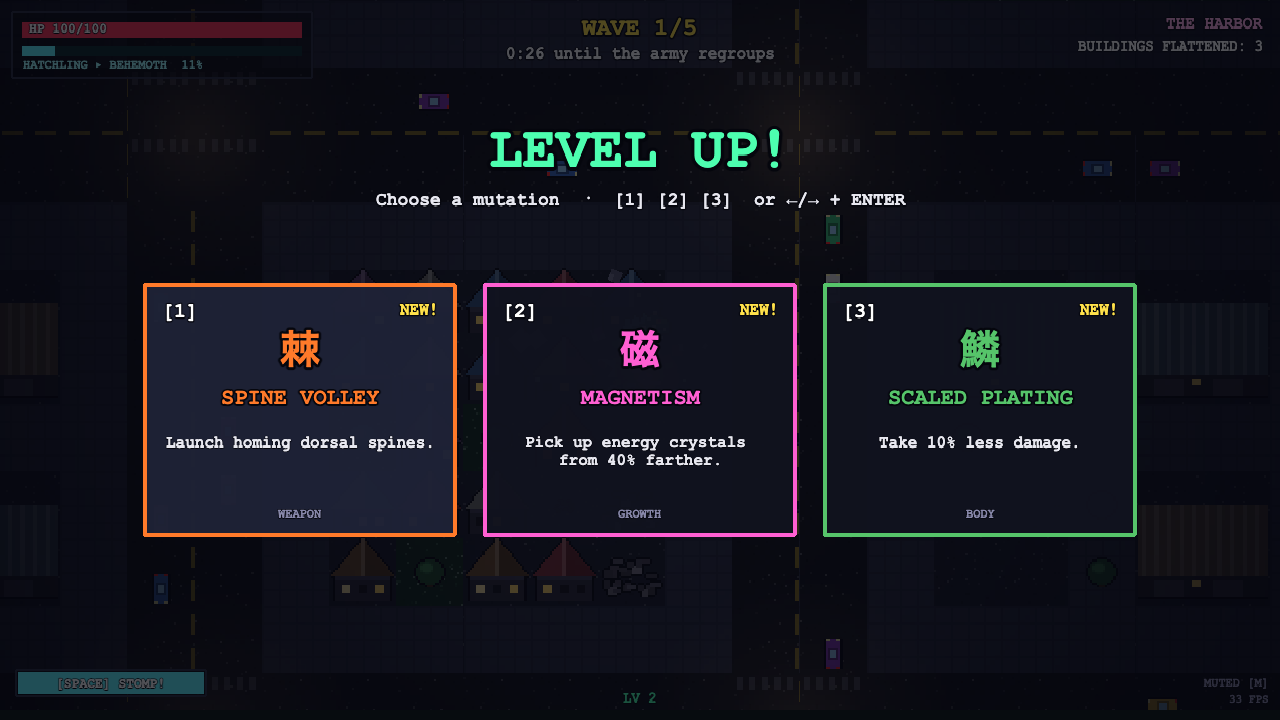
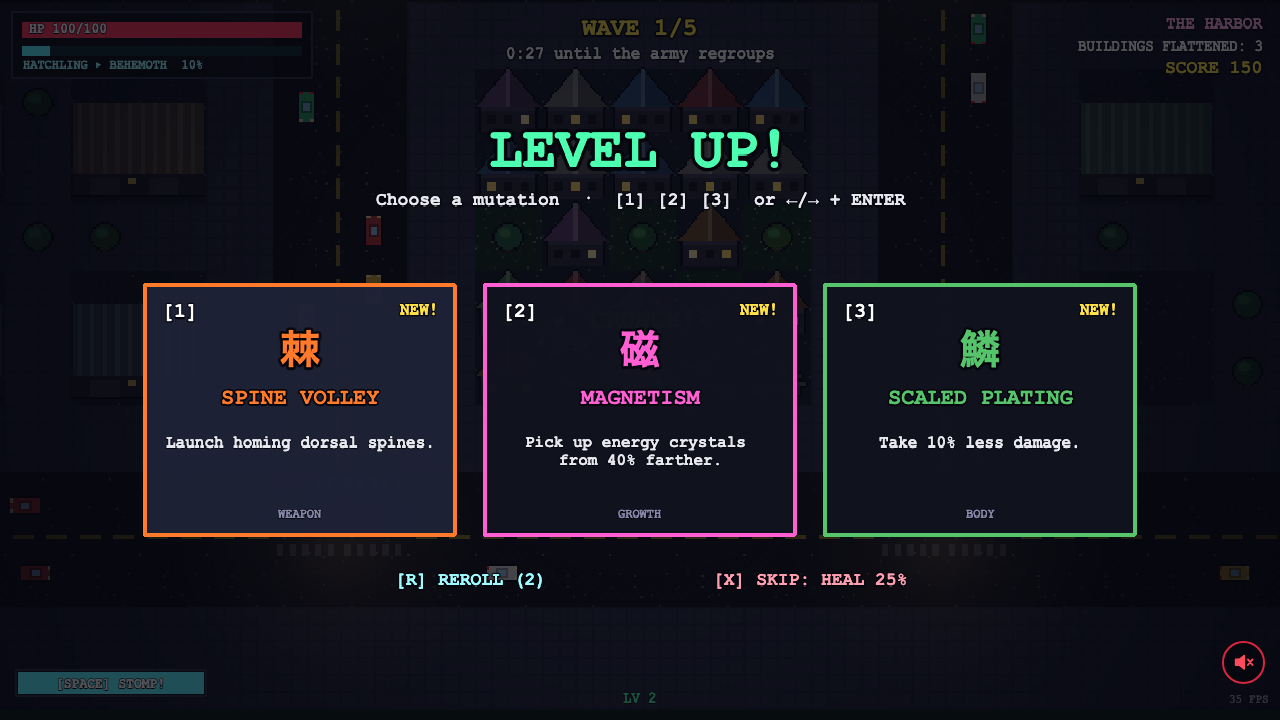
Flow-field navigation for ground units; infantry close to weapon range; mute button documented

diff --git a/src/enemies.ts b/src/enemies.ts
@@ -149,6 +149,11 @@ export class EnemyManager {
     return n;
   }
 
+  /** Direction to walk toward the kaiju: the flow field around buildings, or a straight line in the open. */
+  private toward(e: Enemy, ux: number, uy: number): [number, number] {
+    return this.s.nav.dir(e.x, e.y) ?? [ux, uy];
+  }
+
   private viewRadius(extra = 40) {
     const v = this.s.cameras.main.worldView;
     return Math.hypot(v.width, v.height) / 2 + extra;
@@ -310,7 +315,7 @@ export class EnemyManager {
       }
       // Blocked by a building: sidestep along the perpendicular that leans toward the kaiju, briefly.
       e.detourT -= dt;
-      if (!e.flying && e.etype !== 'mech' && e.etype !== 'walker' && e.detourT <= 0 && (!body.touching.none || !body.blocked.none)) {
+      if (!e.flying && e.etype !== 'mech' && e.etype !== 'walker' && e.detourT <= 0 && (!body.touching.none || !body.blocked.none) && !this.s.nav.dir(e.x, e.y)) {
         const v = body.velocity;
         const L = v.length() || 1;
         const px = -v.y / L, py = v.x / L;
@@ -363,8 +368,9 @@ export class EnemyManager {
     // Infantry are always slower than the kaiju, so escape is possible but never free.
     const sp = e.etype === 'rocket' ? 50 : 62;
     const rocket = e.etype === 'rocket';
+    const [ax, ay] = this.toward(e, ux, uy);
     if (tier === 1 && !rocket) {
-      if (d > 120) { vx = ux * sp; vy = uy * sp; }
+      if (d > 120) { vx = ax * sp; vy = ay * sp; }
       else if (d < 70) { vx = -ux * sp * 0.6; vy = -uy * sp * 0.6; }
       if (d < 220 && e.fireCd <= 0) {
         // Tier 1 rifles are a nuisance, not a death sentence: a stationary hatchling should last ~30s+.
@@ -374,18 +380,19 @@ export class EnemyManager {
       }
     } else {
       // Keep distance, take shots, flee when close. Rocket teams hang further back.
-      const keep = (rocket ? 240 : 150) * p.scale * 0.5;
+      // They close to within 85% of their weapon's range before circling, so they always get to shoot.
+      const range = rocket ? 560 : tier === 2 ? 320 : 480;
+      const keep = Math.min((rocket ? 240 : 150) * p.scale * 0.5, range * 0.55);
       if (d < keep) { vx = -ux * sp * 1.2; vy = -uy * sp * 1.2; }
-      else if (d > keep * 2.2) { vx = ux * sp; vy = uy * sp; }
-      else { vx = -uy * sp * 0.5; vy = ux * sp * 0.5; }
+      else if (d > range * 0.85) { vx = ax * sp; vy = ay * sp; }
+      else { vx = -uy * sp * 0.5 * e.orbitDir; vy = ux * sp * 0.5 * e.orbitDir; }
       if (rocket) {
-        if (d < 560 && e.fireCd <= 0) {
+        if (d < range && e.fireCd <= 0) {
           e.fireCd = 3.2 + Math.random();
           this.fire('rocket', e.x, e.y, Math.atan2(dy, dx), 170, 7, 4, 16, 1.4);
           sfx.shot();
         }
       } else {
-        const range = tier === 2 ? 320 : 480;
         if (d < range && e.fireCd <= 0) {
           e.fireCd = (tier === 2 ? 2 : 3.5) + Math.random() * 1.5;
           this.fire('bullet', e.x, e.y, Math.atan2(dy, dx) + Phaser.Math.FloatBetween(-0.1, 0.1), 240, tier === 2 ? 3 : 2, 2.4);
@@ -402,8 +409,9 @@ export class EnemyManager {
     const body = e.body as Phaser.Physics.Arcade.Body;
     const keep = tier === 1 ? 170 : tier === 2 ? 260 : 420;
     const sp = 48;
+    const [ax, ay] = this.toward(e, ux, uy);
     if (e.detourT > 0) body.setVelocity(e.detourX * sp, e.detourY * sp);
-    else if (d > keep + 40) body.setVelocity(ux * sp, uy * sp);
+    else if (d > keep + 40) body.setVelocity(ax * sp, ay * sp);
     else if (d < keep - 40) body.setVelocity(-ux * sp, -uy * sp);
     else body.setVelocity(-uy * sp * 0.6, ux * sp * 0.6);
     if (body.velocity.lengthSq() > 1) e.setRotation(Math.atan2(body.velocity.y, body.velocity.x));
@@ -453,8 +461,9 @@ export class EnemyManager {
     const keep = 520;
     if (e.mode !== 'charge') {
       const sp = 44;
+      const [ax, ay] = this.toward(e, ux, uy);
       if (e.detourT > 0) body.setVelocity(e.detourX * sp, e.detourY * sp);
-      else if (d > keep + 60) body.setVelocity(ux * sp, uy * sp);
+      else if (d > keep + 60) body.setVelocity(ax * sp, ay * sp);
       else if (d < keep - 80) body.setVelocity(-ux * sp, -uy * sp);
       else body.setVelocity(0, 0);
       if (body.velocity.lengthSq() > 1) e.setRotation(Math.atan2(body.velocity.y, body.velocity.x));

diff --git a/src/nav.ts b/src/nav.ts
@@ -1,0 +1,89 @@
+// Flow-field navigation: a breadth-first distance map over the tile grid, rebuilt from the kaiju's
+// tile a few times a second. Ground units follow it downhill, so they route around buildings instead
+// of pressing into walls. Destroyed buildings open up their tiles.
+import { COAST_ROW, MAP_H, MAP_W, TILE } from './config';
+import type { City, Destructible } from './city';
+
+const UNKNOWN = 0xffff;
+const RADIUS = 44; // tiles searched around the kaiju
+const DIRS: [number, number, number][] = [
+  [1, 0, 10], [-1, 0, 10], [0, 1, 10], [0, -1, 10],
+  [1, 1, 14], [1, -1, 14], [-1, 1, 14], [-1, -1, 14],
+];
+
+export class NavField {
+  private blocked = new Uint8Array(MAP_W * MAP_H);
+  private dist = new Uint16Array(MAP_W * MAP_H).fill(UNKNOWN);
+  private queue = new Int32Array(MAP_W * MAP_H);
+  private touched: number[] = [];
+
+  constructor(city: City) {
+    for (let ty = COAST_ROW; ty < MAP_H; ty++) for (let tx = 0; tx < MAP_W; tx++) this.blocked[ty * MAP_W + tx] = 1;
+    for (const d of city.all) if (d.alive && d.zone) this.mark(d, 1);
+  }
+
+  private mark(d: Destructible, v: number) {
+    const x0 = Math.floor((d.x - d.w / 2) / TILE), x1 = Math.floor((d.x + d.w / 2 - 1) / TILE);
+    const y0 = Math.floor((d.y - d.h / 2) / TILE), y1 = Math.floor((d.y + d.h / 2 - 1) / TILE);
+    for (let ty = Math.max(0, y0); ty <= Math.min(MAP_H - 1, y1); ty++)
+      for (let tx = Math.max(0, x0); tx <= Math.min(MAP_W - 1, x1); tx++) this.blocked[ty * MAP_W + tx] = v;
+  }
+
+  /** A building came down: its tiles are walkable now. */
+  unblock(d: Destructible) {
+    this.mark(d, 0);
+  }
+
+  /** Rebuild distances outward from the kaiju. Cheap: a bounded 8-neighbour Dijkstra-lite BFS. */
+  update(px: number, py: number) {
+    for (const i of this.touched) this.dist[i] = UNKNOWN;
+    this.touched.length = 0;
+    const sx = Math.max(0, Math.min(MAP_W - 1, Math.floor(px / TILE)));
+    const sy = Math.max(0, Math.min(MAP_H - 1, Math.floor(py / TILE)));
+    let head = 0, tail = 0;
+    const start = sy * MAP_W + sx;
+    this.dist[start] = 0;
+    this.touched.push(start);
+    this.queue[tail++] = start;
+    while (head < tail) {
+      const i = this.queue[head++];
+      const x = i % MAP_W, y = (i / MAP_W) | 0;
+      const base = this.dist[i];
+      for (const [dx, dy, cost] of DIRS) {
+        const nx = x + dx, ny = y + dy;
+        if (nx < 0 || ny < 0 || nx >= MAP_W || ny >= MAP_H) continue;
+        if (Math.abs(nx - sx) > RADIUS || Math.abs(ny - sy) > RADIUS) continue;
+        const j = ny * MAP_W + nx;
+        if (this.blocked[j]) continue;
+        // no corner cutting through building edges
+        if (dx && dy && (this.blocked[y * MAP_W + nx] || this.blocked[ny * MAP_W + x])) continue;
+        const nd = base + cost;
+        if (nd < this.dist[j]) {
+          if (this.dist[j] === UNKNOWN) this.touched.push(j);
+          this.dist[j] = nd;
+          this.queue[tail++] = j;
+        }
+      }
+    }
+  }
+
+  /** Unit vector toward the kaiju along the field, or null if this point isn't covered. */
+  dir(x: number, y: number): [number, number] | null {
+    const tx = Math.floor(x / TILE), ty = Math.floor(y / TILE);
+    if (tx < 0 || ty < 0 || tx >= MAP_W || ty >= MAP_H) return null;
+    const here = this.dist[ty * MAP_W + tx];
+    if (here === UNKNOWN || here === 0) return null;
+    let best = here, bx = 0, by = 0;
+    for (const [dx, dy] of DIRS) {
+      const nx = tx + dx, ny = ty + dy;
+      if (nx < 0 || ny < 0 || nx >= MAP_W || ny >= MAP_H) continue;
+      const v = this.dist[ny * MAP_W + nx];
+      if (v < best) { best = v; bx = dx; by = dy; }
+    }
+    if (!bx && !by) return null;
+    // Steer toward the centre of the next tile, so units stay off building corners.
+    const cx = (tx + bx) * TILE + TILE / 2 - x, cy = (ty + by) * TILE + TILE / 2 - y;
+    const L = Math.hypot(cx, cy) || 1;
+    return [cx / L, cy / L];
+  }
+}

diff --git a/src/scenes/GameScene.ts b/src/scenes/GameScene.ts
@@ -18,6 +18,7 @@ import type { UIScene } from './UIScene';
 import { Director } from '../director';
 import { Pickups, type PickupKind } from '../pickups';
 import { Score } from '../score';
+import { NavField } from '../nav';
 import { gradeFor, qualifies } from '../scores';
 
 export type Phase = 'title' | 'playing' | 'paused' | 'levelup' | 'bulletin' | 'dying' | 'gameover' | 'victory' | 'results';
@@ -50,6 +51,8 @@ export class GameScene extends Phaser.Scene {
   ui!: UIScene;
   director!: Director;
   pickups!: Pickups;
+  nav!: NavField;
+  private navT = 0;
   score = new Score();
   stats = new RunTracker();
   news = new NewsDesk();
@@ -121,6 +124,7 @@ export class GameScene extends Phaser.Scene {
     this.physics.world.setBounds(0, 0, WORLD_W, LAND_H - 6);
     this.city = new City(this, SEED);
     this.city.build();
+    this.nav = new NavField(this.city);
     this.fx = new Fx(this);
     this.player = new Kaiju(this, WORLD_W / 2, LAND_H - 70);
     this.enemies = new EnemyManager(this);
@@ -358,6 +362,11 @@ export class GameScene extends Phaser.Scene {
       if (d.sizeClass <= this.tier && circleHits(d, p.x, p.y, p.radius)) this.destroyDestructible(d, true);
     }
 
+    this.navT -= dt;
+    if (this.navT <= 0) {
+      this.navT = 0.35;
+      this.nav.update(p.x, p.y);
+    }
     this.weapons.update(dt);
     this.enemies.update(dt);
     this.pickups.update(dt);
@@ -696,6 +705,7 @@ export class GameScene extends Phaser.Scene {
     if (d.zone) {
       this.city.solids.remove(d.zone, true, true);
       d.zone = undefined;
+      this.nav.unblock(d);
     }
     if (credit) this.stats.destroyed(d.kind, d.district);
     const p = this.player;

diff --git a/README.md b/README.md
@@ -46,7 +46,7 @@ npm run build
 | 1 / 2 / 3, or ←/→ then Enter, or click (gamepad: d-pad + A) | Pick an upgrade on level-up |
 | Enter (gamepad: A) | Start, dismiss the news card |
 | P or Esc | Pause / resume |
-| M | Mute / unmute (remembered between runs) |
+| M, or the speaker button in the bottom-right corner | Mute / unmute everything (remembered between runs) |
 
 **The loop:** crushing the city makes you **grow**; killing the military gives crystals that **level you up**. You crush on contact anything in your size class: cars and trees at tier 1, houses at tier 2, towers and tanks at tier 3. You can claw or shoulder-charge things one class bigger. Anything larger is a wall. Each tier zooms the camera out, heals you, and changes how the army behaves: at tier 1 infantry advance and shoot, at tier 2 they panic and tanks become the main threat, and at tier 3 tanks keep their distance and shell you from afar. There are 5 waves (about 10 minutes); wave 5 ends when you destroy the mech **M-01 Shiokaze Guardian**.
 
